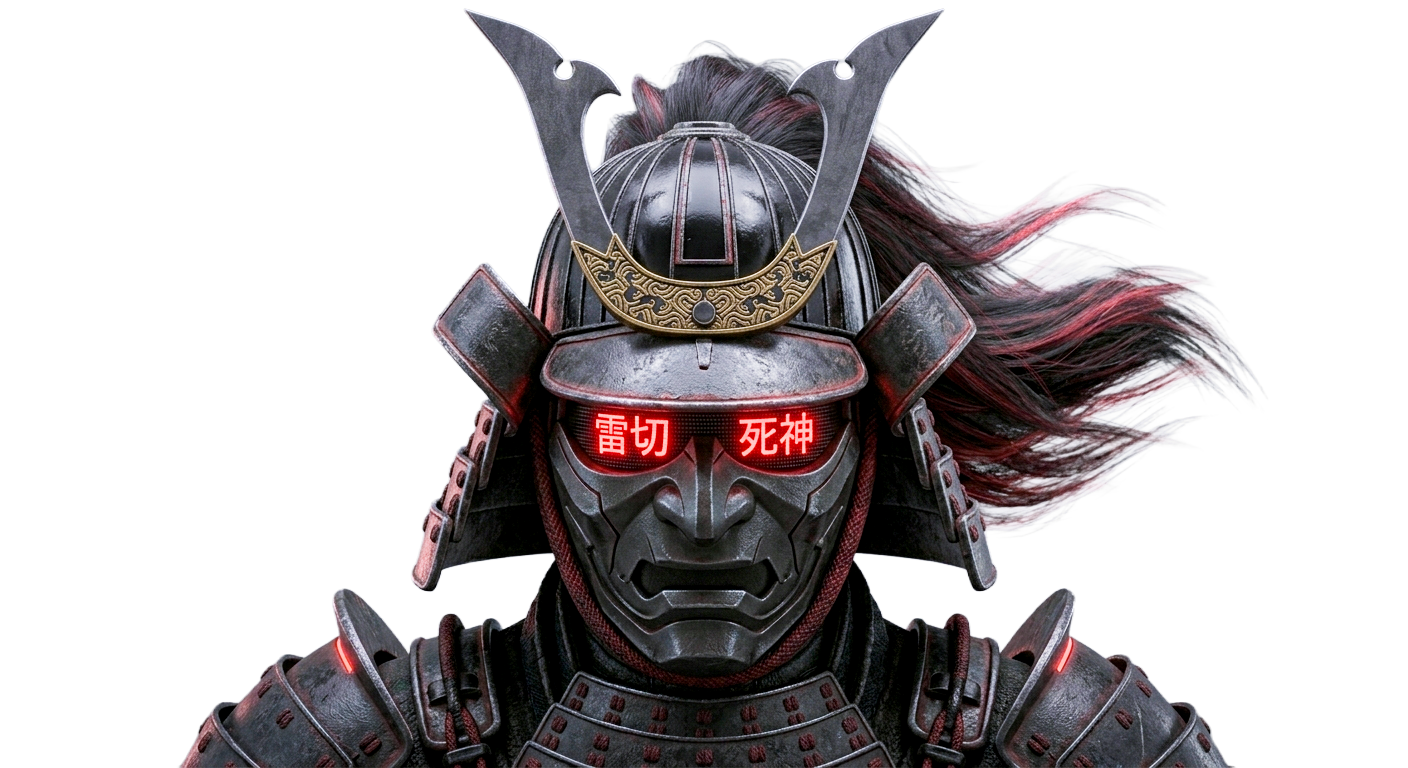
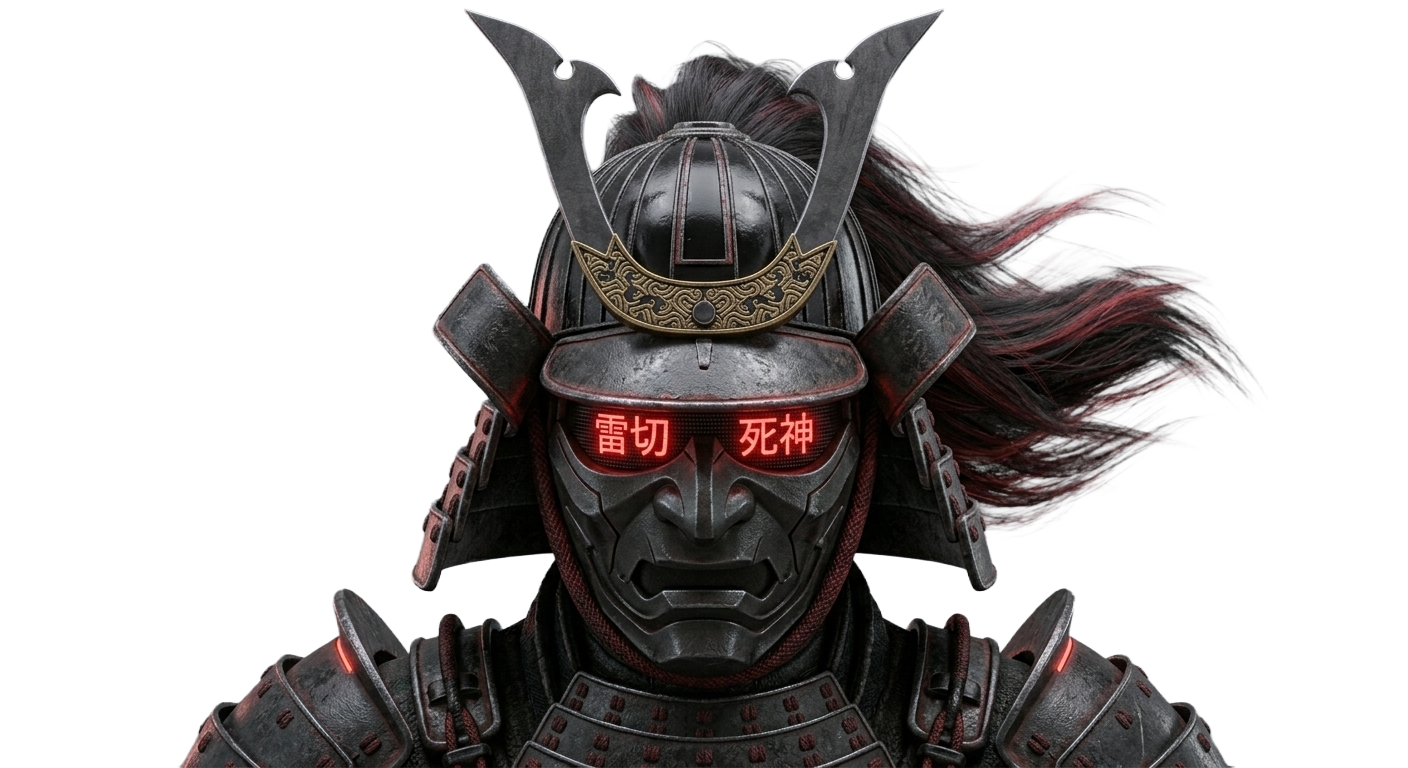
Styling the Front

diff --git a/src/components/Background.jsx b/src/components/Background.jsx
@@ -1,30 +1,65 @@
+import { useEffect, useState } from "react";
+
 function Background() {
+  const [started, setStarted] = useState(false);
+
+  useEffect(() => {
+    const trigger = () => {
+      if (!started) {
+        setStarted(true);
+      }
+    };
+
+    const handleScroll = () => {
+      if (window.scrollY > 10) trigger();
+    };
+
+    const handleWheel = (e) => {
+      if (e.deltaY !== 0) trigger();
+    };
+
+    const handleTouch = () => trigger();
+
+    window.addEventListener("scroll", handleScroll);
+    window.addEventListener("wheel", handleWheel);
+    window.addEventListener("touchstart", handleTouch);
+
+    return () => {
+      window.removeEventListener("scroll", handleScroll);
+      window.removeEventListener("wheel", handleWheel);
+      window.removeEventListener("touchstart", handleTouch);
+    };
+  }, [started]);
+
   return (
-    <div className="relative w-screen h-screen overflow-hidden">
+    <div className="fixed inset-0 w-screen h-screen -z-10">
       <img
         src="/images/background3.png"
-        alt="Background"
-        className="w-full h-full object-cover grayscale"
-        style={{ filter: "grayscale(100%) brightness(0.2)" }}
+        className="w-full h-full object-cover"
+        style={{ filter: "grayscale(100%) brightness(0)" }}
+        alt="Background Dark"
       />
 
-      <div
-        className="absolute inset-0"
-        style={{
-          maskImage: "url(/images/mask.gif)",
-          WebkitMaskImage: "url(/images/mask.gif)",
-          maskSize: "cover",
-          WebkitMaskSize: "cover",
-          maskRepeat: "no-repeat",
-          WebkitMaskRepeat: "no-repeat",
-        }}
-      >
-        <img
-          src="/images/background3.png"
-          alt="Background Color"
-          className="w-full h-full object-cover"
-        />
-      </div>
+      {started && (
+        <div
+          className="absolute inset-0"
+          style={{
+            maskImage: "url(/images/mask.gif)",
+            WebkitMaskImage: "url(/images/mask.gif)",
+            maskSize: "cover",
+            WebkitMaskSize: "cover",
+            maskRepeat: "no-repeat",
+            WebkitMaskRepeat: "no-repeat",
+            animation: "fadeIn 4s ease forwards",
+          }}
+        >
+          <img
+            src="/images/background3.png"
+            className="w-full h-full object-cover"
+            alt="Background Color"
+          />
+        </div>
+      )}
     </div>
   );
 }

diff --git a/src/components/HomePageText.jsx b/src/components/HomePageText.jsx
@@ -1,0 +1,69 @@
+import { useEffect, useState, useRef } from "react";
+import { useScrollParallax, useMouseParallax } from "../hooks/useParallax";
+
+export default function HomePageText() {
+  const [visible, setVisible] = useState(false);
+  const triggered = useRef(false);
+  const scrollY = useScrollParallax();
+  const mouse = useMouseParallax();
+
+  useEffect(() => {
+    const trigger = () => {
+      if (triggered.current) return;
+      triggered.current = true;
+      setTimeout(() => setVisible(true), 5660);
+    };
+
+    const handleScroll = () => {
+      if (window.scrollY > 10) trigger();
+    };
+    const handleWheel = (e) => {
+      if (e.deltaY !== 0) trigger();
+    };
+    const handleTouch = () => trigger();
+
+    window.addEventListener("scroll", handleScroll);
+    window.addEventListener("wheel", handleWheel);
+    window.addEventListener("touchstart", handleTouch);
+
+    return () => {
+      window.removeEventListener("scroll", handleScroll);
+      window.removeEventListener("wheel", handleWheel);
+      window.removeEventListener("touchstart", handleTouch);
+    };
+  }, []);
+
+  // Don't render at all until triggered
+  if (!triggered.current && !visible) {
+    return (
+      <div
+        className="fixed inset-0 flex justify-center pointer-events-none"
+        style={{ zIndex: 10, opacity: 0 }}
+      />
+    );
+  }
+
+  return (
+    <div
+      className="fixed inset-0 flex justify-center pointer-events-none"
+      style={{
+        zIndex: 10,
+        opacity: visible ? 1 : 0,
+        transition: "opacity 1.5s ease",
+        transform: `translateY(${scrollY * 0.3}px) translate(${mouse.x * 5}px, ${mouse.y * 3}px)`,
+      }}
+    >
+      <p
+        style={{
+          fontFamily: "Japanese",
+          fontSize: "12vh",
+          color: "#666263",
+          letterSpacing: "0.2em",
+          textShadow: "2px 2px 4px rgba(0, 0, 0, 0.5)",
+        }}
+      >
+        Ronin
+      </p>
+    </div>
+  );
+}

diff --git a/src/components/Subject.jsx b/src/components/Subject.jsx
@@ -1,0 +1,68 @@
+import { useEffect, useState } from "react";
+import { useScrollParallax, useMouseParallax } from "../hooks/useParallax";
+
+export default function Subject() {
+  const [started, setStarted] = useState(false);
+  const scrollY = useScrollParallax();
+  const mouse = useMouseParallax();
+
+  useEffect(() => {
+    const trigger = () => {
+      if (!started) setStarted(true);
+    };
+    const handleScroll = () => {
+      if (window.scrollY > 10) trigger();
+    };
+    const handleWheel = (e) => {
+      if (e.deltaY !== 0) trigger();
+    };
+    const handleTouch = () => trigger();
+
+    window.addEventListener("scroll", handleScroll);
+    window.addEventListener("wheel", handleWheel);
+    window.addEventListener("touchstart", handleTouch);
+
+    return () => {
+      window.removeEventListener("scroll", handleScroll);
+      window.removeEventListener("wheel", handleWheel);
+      window.removeEventListener("touchstart", handleTouch);
+    };
+  }, [started]);
+
+  return (
+    <div
+      className="fixed inset-0 flex items-end justify-center"
+      style={{
+        zIndex: 5,
+        transform: `translateY(${scrollY * 0.15}px) translate(${mouse.x * 10}px, ${mouse.y * 5}px)`,
+        transition: "transform 0.1s ease-out",
+      }}
+    >
+      <div
+        style={{
+          position: "absolute",
+          bottom: "-20%",
+          width: "70%",
+          height: "80%",
+          background:
+            "radial-gradient(ellipse at center, rgba(180,0,0,0.4) 0%, transparent 90%)",
+          filter: "blur(40px)",
+          transition: "opacity 4s ease",
+          opacity: started ? 1 : 0,
+        }}
+      />
+      <img
+        src="/images/closeup_bg.png"
+        alt="Subject"
+        className="h-[80vh] w-auto object-contain"
+        pointer-events-none
+        style={{
+          filter: started
+            ? "grayscale(0%) brightness(1)"
+            : "grayscale(100%) brightness(0.2)",
+          transition: "filter 4s ease",
+        }}
+      />
+    </div>
+  );
+}

diff --git a/src/components/ScrollPrompt.jsx b/src/components/ScrollPrompt.jsx
@@ -1,0 +1,50 @@
+import { useEffect, useState } from "react";
+
+export default function ScrollPrompt() {
+  const [visible, setVisible] = useState(true);
+
+  useEffect(() => {
+    const trigger = () => setVisible(false);
+
+    const handleScroll = () => {
+      if (window.scrollY > 10) trigger();
+    };
+    const handleWheel = (e) => {
+      if (e.deltaY !== 0) trigger();
+    };
+    const handleTouch = () => trigger();
+
+    window.addEventListener("scroll", handleScroll);
+    window.addEventListener("wheel", handleWheel);
+    window.addEventListener("touchstart", handleTouch);
+
+    return () => {
+      window.removeEventListener("scroll", handleScroll);
+      window.removeEventListener("wheel", handleWheel);
+      window.removeEventListener("touchstart", handleTouch);
+    };
+  }, []);
+
+  return (
+    <div
+      className="fixed inset-0 flex items-center justify-center pointer-events-none"
+      style={{
+        zIndex: 10,
+        opacity: visible ? 1 : 0,
+        transition: "opacity 1s ease",
+      }}
+    >
+      <p
+        style={{
+          fontFamily: "Japanese",
+          fontSize: "clamp(1rem, 3vw, 2rem)",
+          color: "white",
+          letterSpacing: "0.5em",
+          textTransform: "uppercase",
+        }}
+      >
+        scroll
+      </p>
+    </div>
+  );
+}

diff --git a/src/hooks/useParallax.js b/src/hooks/useParallax.js
@@ -1,0 +1,30 @@
+import { useEffect, useState } from "react";
+
+export function useScrollParallax() {
+  const [scrollY, setScrollY] = useState(0);
+
+  useEffect(() => {
+    const handleScroll = () => setScrollY(window.scrollY);
+    window.addEventListener("scroll", handleScroll);
+    return () => window.removeEventListener("scroll", handleScroll);
+  }, []);
+
+  return scrollY;
+}
+
+export function useMouseParallax() {
+  const [mouse, setMouse] = useState({ x: 0, y: 0 });
+
+  useEffect(() => {
+    const handleMouse = (e) => {
+      const x = (e.clientX / window.innerWidth - 0.5) * 2;
+      const y = (e.clientY / window.innerHeight - 0.5) * 2;
+      setMouse({ x, y });
+    };
+
+    window.addEventListener("mousemove", handleMouse);
+    return () => window.removeEventListener("mousemove", handleMouse);
+  }, []);
+
+  return mouse;
+}

diff --git a/src/index.css b/src/index.css
@@ -1,1 +1,26 @@
 @import "tailwindcss";
+
+@font-face {
+  font-family: "Japanese";
+  src: url("/fonts/Japanese.woff") format("woff");
+}
+
+@font-face {
+  font-family: "KongJapanese";
+  src: url("/fonts/Kong Japanese.woff") format("woff");
+}
+
+@font-face {
+  font-family: "Sekaiwo";
+  src: url("/fonts/Sekaiwo.woff") format("woff");
+}
+
+@font-face {
+  font-family: "Toragon";
+  src: url("/fonts/Toragon.woff") format("woff");
+}
+
+@font-face {
+  font-family: "Uminari";
+  src: url("/fonts/Uminari.woff") format("woff");
+}

diff --git a/src/App.jsx b/src/App.jsx
@@ -1,10 +1,22 @@
+import { useEffect } from "react";
 import Background from "./components/Background";
+import Subject from "./components/Subject";
+import ScrollPrompt from "./components/ScrollPrompt";
+import HomePageText from "./components/HomePageText";
 
 function App() {
+  useEffect(() => {
+    window.scrollTo(0, 0);
+  }, []);
+
   return (
-    <div>
+    <>
       <Background />
-    </div>
+      <HomePageText />
+      <Subject />
+      <ScrollPrompt />
+    </>
   );
 }
+
 export default App;